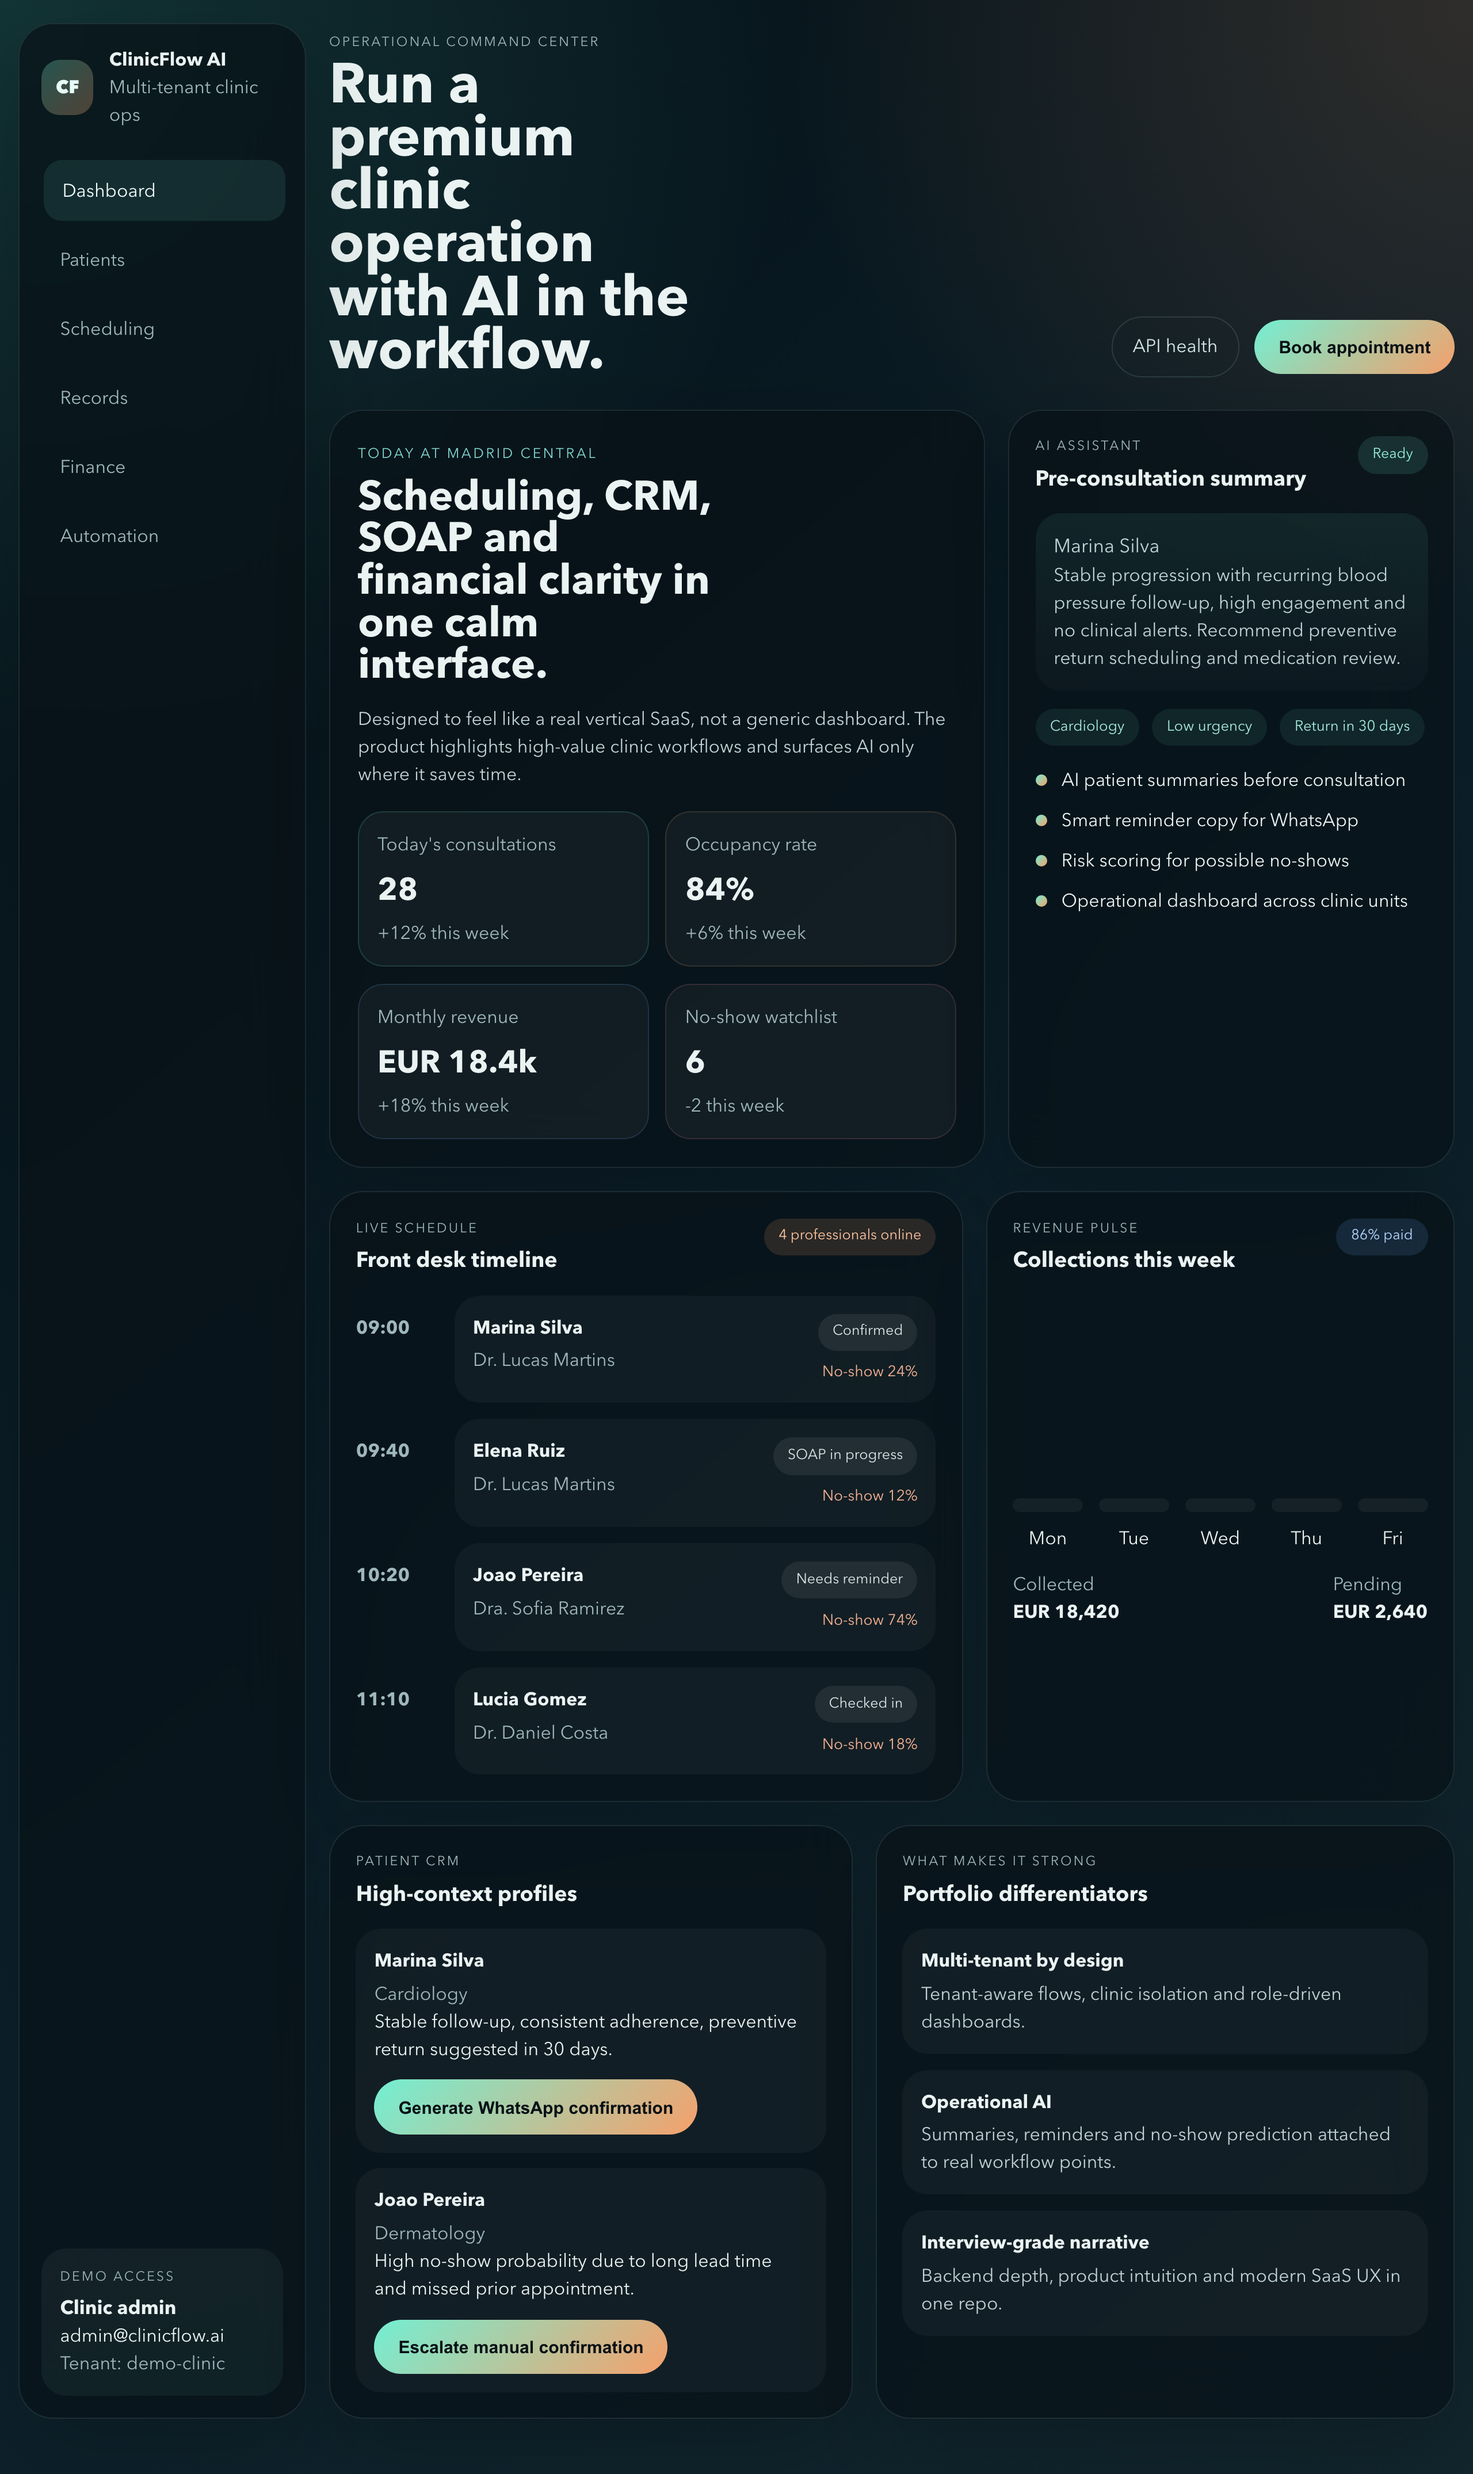
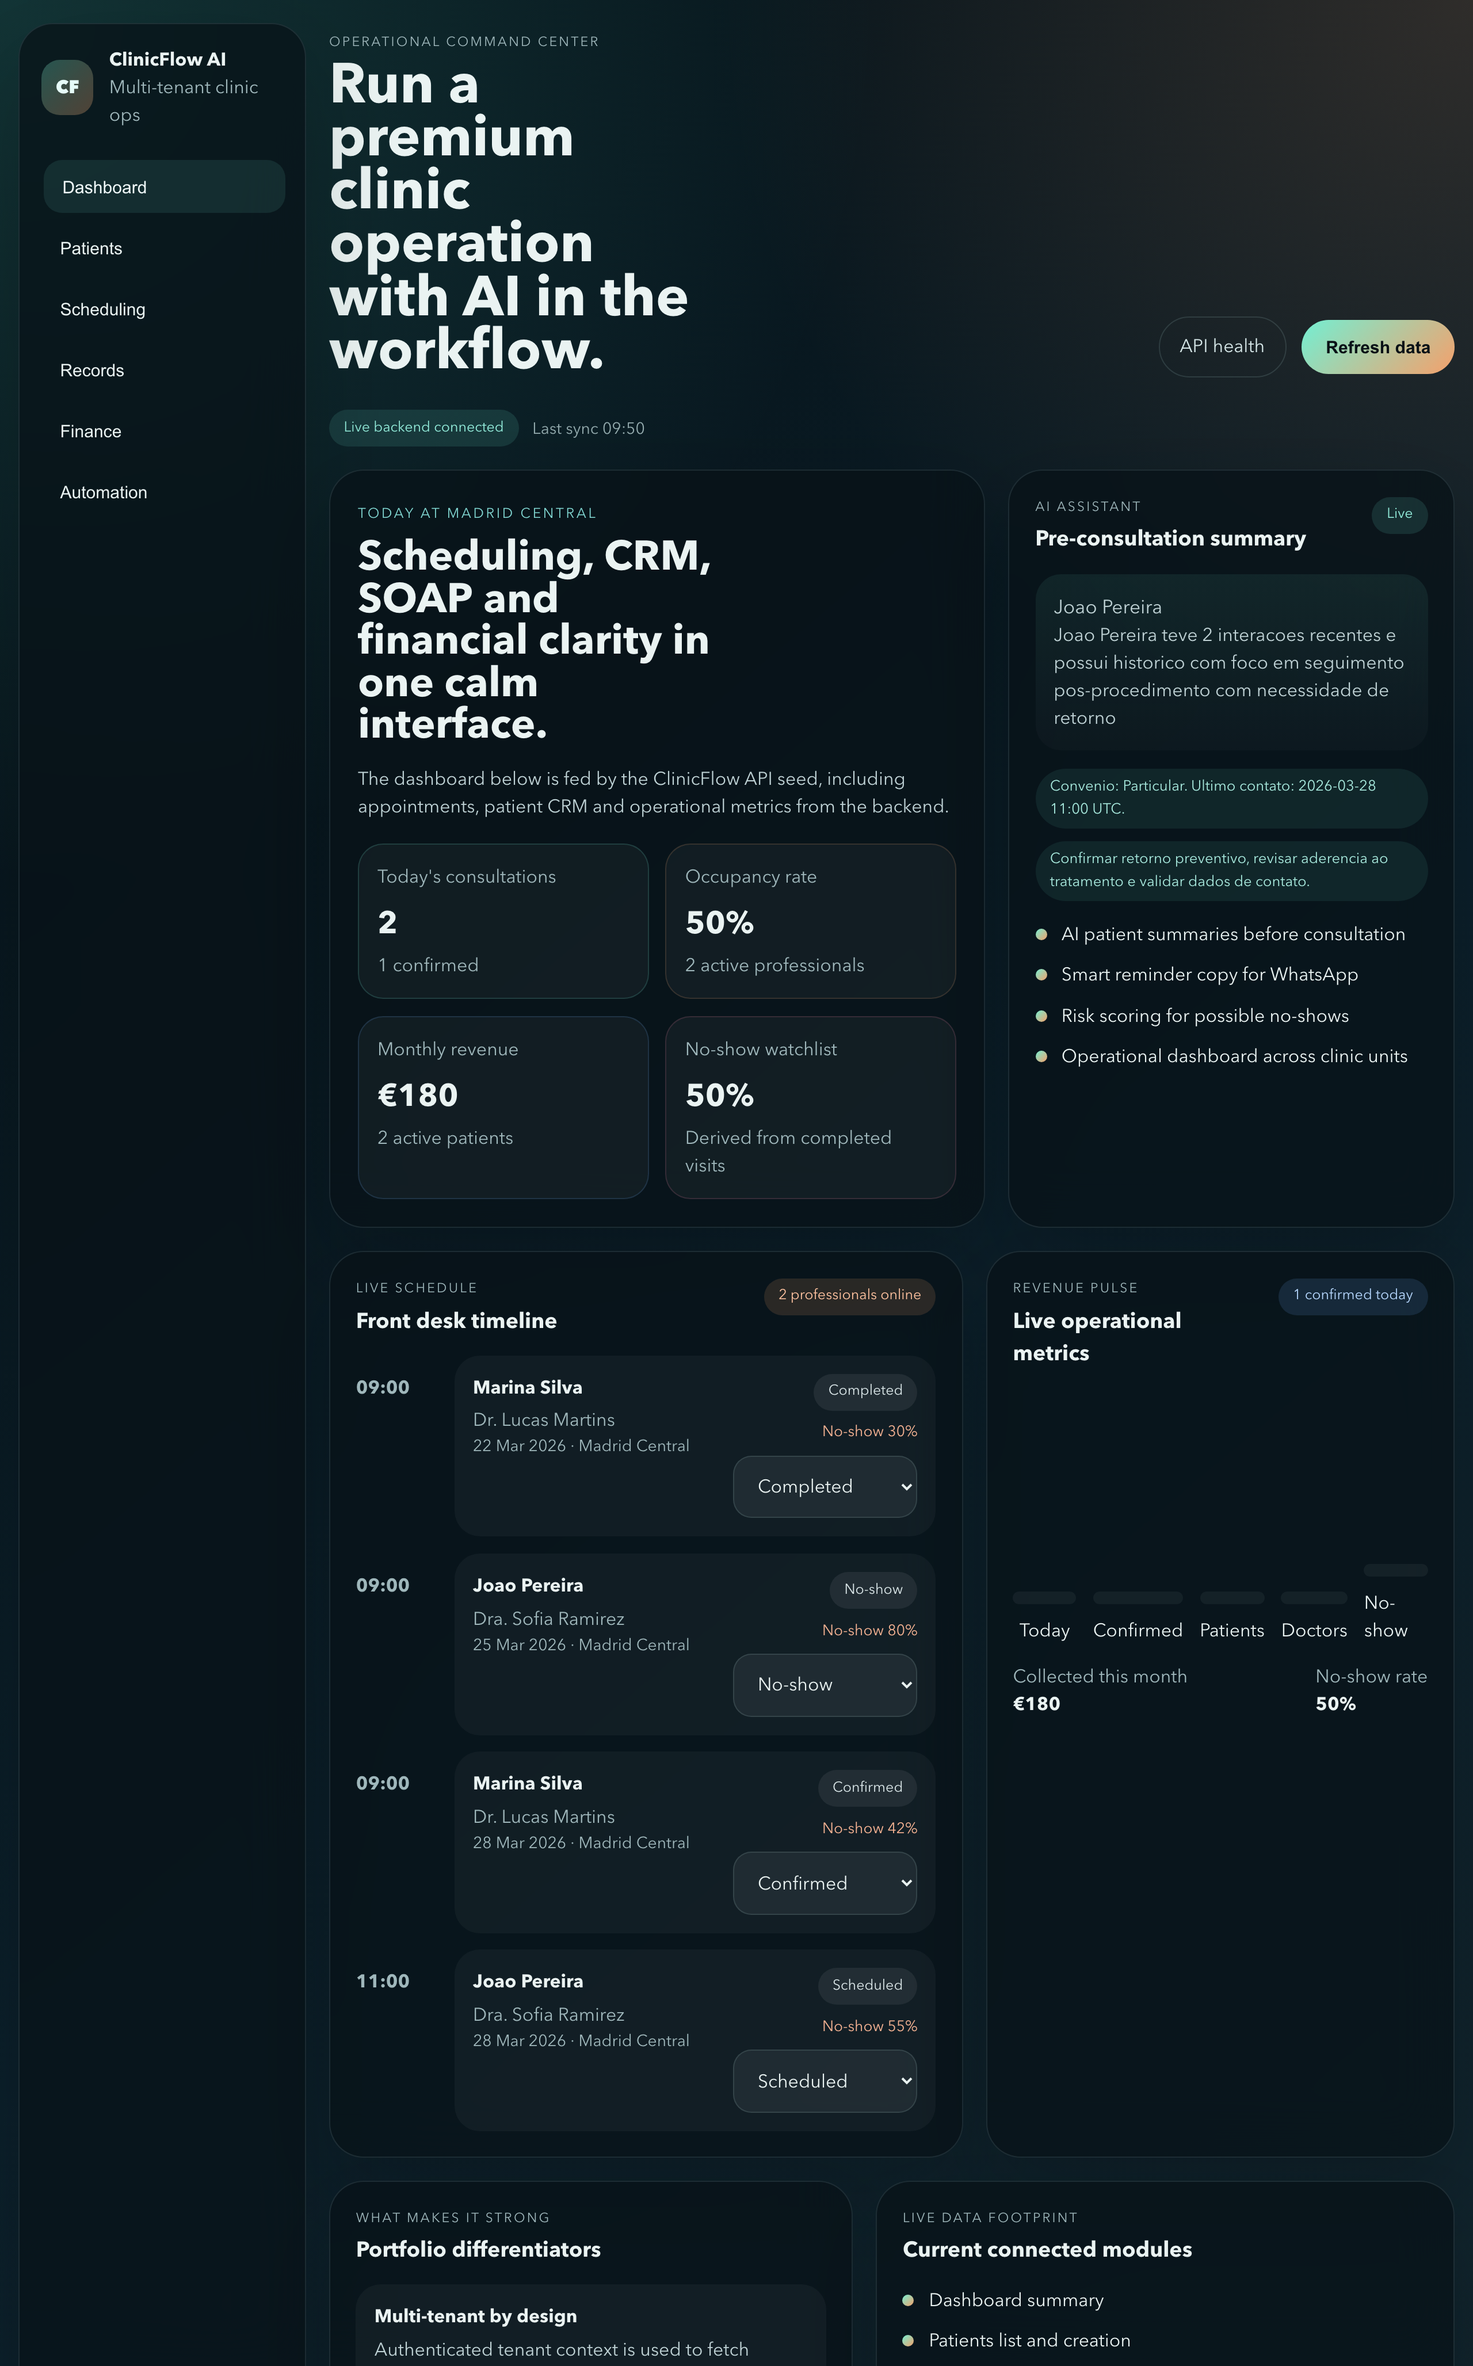
feat: manage appointment status from ui

diff --git a/apps/admin_web/src/App.tsx b/apps/admin_web/src/App.tsx
@@ -88,6 +88,15 @@ type AppointmentForm = {
   notes: string;
 };
 
+const appointmentStatusOptions = [
+  { value: 1, label: "Scheduled" },
+  { value: 2, label: "Confirmed" },
+  { value: 3, label: "In progress" },
+  { value: 4, label: "Completed" },
+  { value: 5, label: "Cancelled" },
+  { value: 6, label: "No-show" }
+];
+
 const defaultSummary: DashboardSummary = {
   appointmentsToday: 0,
   confirmedAppointments: 0,
@@ -365,6 +374,34 @@ export function App() {
     }
   }
 
+  async function handleUpdateAppointmentStatus(appointmentId: string, status: number) {
+    if (!session) {
+      return;
+    }
+
+    setError(null);
+    setSuccessMessage(null);
+
+    try {
+      await fetchJson<Appointment>(`/api/appointments/${appointmentId}/status`, {
+        method: "PUT",
+        headers: {
+          "Content-Type": "application/json",
+          "X-Tenant-Id": session.tenantId
+        },
+        body: JSON.stringify({
+          status,
+          cancellationReason: status === 5 ? "Cancelled from dashboard UI" : null
+        })
+      });
+
+      setSuccessMessage("Appointment status updated.");
+      await refreshData();
+    } catch (updateError) {
+      setError(updateError instanceof Error ? updateError.message : "Unable to update appointment.");
+    }
+  }
+
   const metrics = [
     { label: "Today's consultations", value: String(summary.appointmentsToday), trend: `${summary.confirmedAppointments} confirmed`, tone: "teal" },
     { label: "Occupancy rate", value: `${summary.appointmentsToday === 0 ? 0 : Math.round((summary.confirmedAppointments / summary.appointmentsToday) * 100)}%`, trend: `${summary.activeProfessionals} active professionals`, tone: "orange" },
@@ -520,6 +557,15 @@ export function App() {
                           <div className="timeline-meta">
                             <span className="pill dark">{mapStatus(item.status)}</span>
                             <span className="risk">No-show {item.noShowRiskScore}%</span>
+                            <select
+                              className="status-select"
+                              value={item.status}
+                              onChange={(event) => void handleUpdateAppointmentStatus(item.id, Number(event.target.value))}
+                            >
+                              {appointmentStatusOptions.map((option) => (
+                                <option key={option.value} value={option.value}>{option.label}</option>
+                              ))}
+                            </select>
                           </div>
                         </div>
                       </div>
@@ -709,6 +755,15 @@ export function App() {
                       <div className="timeline-meta">
                         <span className="pill dark">{mapStatus(item.status)}</span>
                         <span className="risk">No-show {item.noShowRiskScore}%</span>
+                        <select
+                          className="status-select"
+                          value={item.status}
+                          onChange={(event) => void handleUpdateAppointmentStatus(item.id, Number(event.target.value))}
+                        >
+                          {appointmentStatusOptions.map((option) => (
+                            <option key={option.value} value={option.value}>{option.label}</option>
+                          ))}
+                        </select>
                       </div>
                     </div>
                   </div>

diff --git a/apps/admin_web/src/styles.css b/apps/admin_web/src/styles.css
@@ -480,6 +480,11 @@ textarea {
   gap: 0.6rem;
 }
 
+.status-select {
+  min-width: 160px;
+  background: rgba(255, 255, 255, 0.06);
+}
+
 .risk {
   color: #f6b393;
   font-size: 0.82rem;
